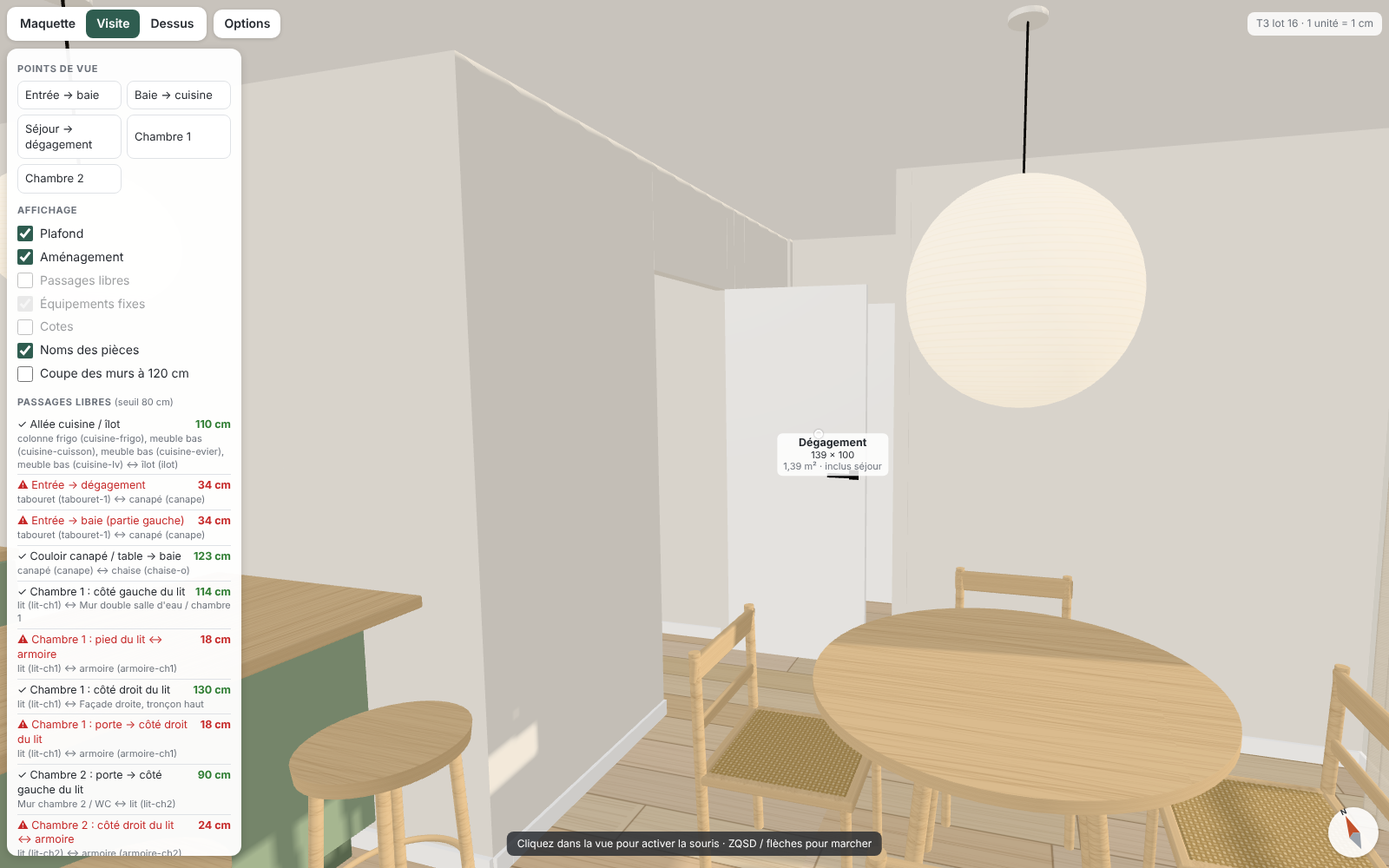
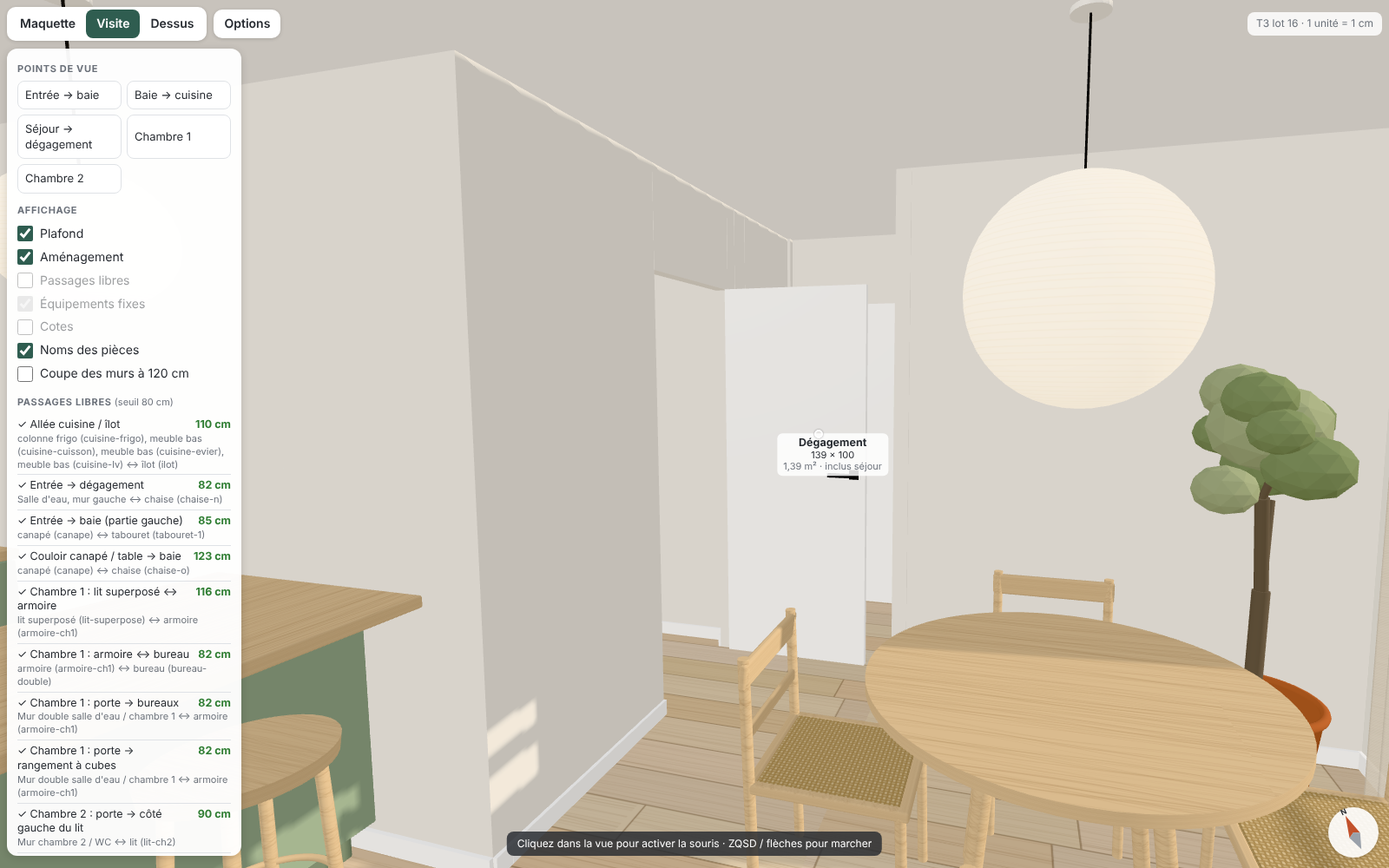
Maquette T3 : séjour dégagé, chambre d'enfants, meubles hauts de cuisine
- Canapé contre la façade (face TV), TV, table basse recentrées,
  olivier à droite de la baie, 2 tabourets rentrés sous l'îlot,
  table décalée de 15 cm : passages entrée → dégagement 82 cm,
  entrée → baie 85 cm.
- Chambre 1 pour deux enfants : lit superposé, bureau double sous la
  fenêtre, étagères, rangement à cubes, armoire 180 cm.
- Cuisine : meubles hauts sauge sauf au-dessus de la plaque.
- QC et HYPOTHESES.md mis à jour.

Claude-Session: https://claude.ai/code/session_013NNe5BH2YHyHX7LnZjBHt7

diff --git a/maquette-t3/index.html b/maquette-t3/index.html
@@ -113,7 +113,7 @@ const GEO = {
     { id: 'entree-baie',       nom: 'Entrée → baie',        depuis: [55, 210],  vers: [466, 577, 110] },
     { id: 'baie-cuisine',      nom: 'Baie → cuisine',       depuis: [466, 545], vers: [343, 30, 100] },
     { id: 'sejour-degagement', nom: 'Séjour → dégagement',  depuis: [330, 440], vers: [740, 320, 120] },
-    { id: 'chambre-1',         nom: 'Chambre 1',            depuis: [800, 250], vers: [1110, 60, 110] },
+    { id: 'chambre-1',         nom: 'Chambre 1',            depuis: [740, 190], vers: [1110, 140, 100] },
     { id: 'chambre-2',         nom: 'Chambre 2',            depuis: [820, 310], vers: [1110, 577, 100] }
   ]
 };
@@ -140,41 +140,46 @@ const furniture = [
   { id: 'cuisine-evier',   type: 'meuble-bas', variante: 'evier',          x: 341, y: 0, largeur: 89, profondeur: 63, hauteur: 90, rotation: 0, materiau: 'sauge', habille: 'cuisine-evier' },
   { id: 'cuisine-lv',      type: 'meuble-bas', variante: 'lave-vaisselle', x: 430, y: 0, largeur: 64, profondeur: 63, hauteur: 90, rotation: 0, materiau: 'sauge', habille: 'cuisine-lv' },
   { id: 'credence',        type: 'revetement', x: 254, y: 0, largeur: 240, profondeur: 1.5, hauteur: 60, z: 90,  rotation: 0, materiau: 'zellige' },
-  { id: 'etagere-cuisine', type: 'etagere',    x: 254, y: 0, largeur: 240, profondeur: 25,  hauteur: 4,  z: 150, rotation: 0, materiau: 'chene' },
+  { id: 'etagere-cuisine', type: 'etagere',    x: 254, y: 0, largeur: 87,  profondeur: 25,  hauteur: 4,  z: 150, rotation: 0, materiau: 'chene' }, // au-dessus de la cuisson (pas de meuble haut)
+  // meubles hauts : partout sauf au-dessus de la plaque de cuisson ; dessus alignés à 230 cm
+  { id: 'haut-frigo',      type: 'meuble-haut', x: 193, y: 0, largeur: 61,  profondeur: 60, hauteur: 30, z: 200, rotation: 0, materiau: 'sauge', portes: 1 },
+  { id: 'haut-evier',      type: 'meuble-haut', x: 341, y: 0, largeur: 89,  profondeur: 35, hauteur: 80, z: 150, rotation: 0, materiau: 'sauge', portes: 2 },
+  { id: 'haut-lv',         type: 'meuble-haut', x: 430, y: 0, largeur: 64,  profondeur: 35, hauteur: 80, z: 150, rotation: 0, materiau: 'sauge', portes: 1 },
   // ---------- Îlot et tabourets ----------
   // 200 × 90 × 90 : caisson de 65 cm + plateau débordant de 25 cm côté séjour (+y)
   { id: 'ilot',       type: 'ilot',     x: 294, y: 173, largeur: 200, profondeur: 90, hauteur: 90, rotation: 180, materiau: 'sauge', debord: 25 },
-  { id: 'tabouret-1', type: 'tabouret', x: 320, y: 265, largeur: 40, profondeur: 40, hauteur: 65, rotation: 180, materiau: 'chene' }, // centre (340, 285)
-  { id: 'tabouret-2', type: 'tabouret', x: 380, y: 265, largeur: 40, profondeur: 40, hauteur: 65, rotation: 180, materiau: 'chene' }, // centre (400, 285)
-  { id: 'tabouret-3', type: 'tabouret', x: 440, y: 265, largeur: 40, profondeur: 40, hauteur: 65, rotation: 180, materiau: 'chene' }, // centre (460, 285)
+  { id: 'tabouret-1', type: 'tabouret', x: 324, y: 238, largeur: 40, profondeur: 40, hauteur: 65, rotation: 180, materiau: 'chene', table: 'ilot' }, // centre (344, 258), rentré sous le débord
+  { id: 'tabouret-2', type: 'tabouret', x: 424, y: 238, largeur: 40, profondeur: 40, hauteur: 65, rotation: 180, materiau: 'chene', table: 'ilot' }, // centre (444, 258), rentré sous le débord
   { id: 'suspension-ilot-1', type: 'suspension', x: 326.5, y: 200.5, largeur: 35, profondeur: 35, hauteur: 35, z: 175, rotation: 0, materiau: 'papier' }, // centre (344, 218)
   { id: 'suspension-ilot-2', type: 'suspension', x: 426.5, y: 200.5, largeur: 35, profondeur: 35, hauteur: 35, z: 175, rotation: 0, materiau: 'papier' }, // centre (444, 218)
   // ---------- Salon ----------
-  { id: 'meuble-tv',  type: 'meuble-tv', x: 0,   y: 300, largeur: 40, profondeur: 180, hauteur: 50, rotation: 270, materiau: 'chene' },
-  { id: 'ecran',      type: 'ecran',     x: 9,   y: 329, largeur: 22, profondeur: 122, hauteur: 78, z: 50, rotation: 270, materiau: 'noir' }, // 55 pouces
-  { id: 'canape',     type: 'canape',    x: 215, y: 330, largeur: 95, profondeur: 220, hauteur: 80, rotation: 90, materiau: 'boucle',
+  { id: 'meuble-tv',  type: 'meuble-tv', x: 0,   y: 377, largeur: 40, profondeur: 180, hauteur: 50, rotation: 270, materiau: 'chene' }, // centré sur le canapé (y 467)
+  { id: 'ecran',      type: 'ecran',     x: 9,   y: 406, largeur: 22, profondeur: 122, hauteur: 78, z: 50, rotation: 270, materiau: 'noir' }, // 55 pouces
+  { id: 'canape',     type: 'canape',    x: 215, y: 357, largeur: 95, profondeur: 220, hauteur: 80, rotation: 90, materiau: 'boucle',
     coussins: ['terracotta', 'ocre', 'terracotta'], plaid: 'ocre' },
-  { id: 'table-basse', type: 'table-basse-ronde', x: 90, y: 400, largeur: 80, profondeur: 80, hauteur: 35, rotation: 0, materiau: 'travertin' }, // centre (130, 440)
+  { id: 'table-basse', type: 'table-basse-ronde', x: 90, y: 427, largeur: 80, profondeur: 80, hauteur: 35, rotation: 0, materiau: 'travertin' }, // centre (130, 467)
   { id: 'tapis',      type: 'tapis',     x: 75,  y: 296, largeur: 200, profondeur: 280, hauteur: 1.5, rotation: 0, materiau: 'laine' },
-  { id: 'olivier',    type: 'olivier',   x: 5,   y: 505, largeur: 70, profondeur: 70, hauteur: 170, rotation: 0, materiau: 'terre-cuite' }, // centre (40, 540)
+  { id: 'olivier',    type: 'olivier',   x: 569, y: 490, largeur: 70, profondeur: 70, hauteur: 170, rotation: 0, materiau: 'terre-cuite' }, // centre (604, 525), à droite de la baie
   // ---------- Coin repas ----------
-  { id: 'table-sejour', type: 'table-ronde', x: 465, y: 385, largeur: 110, profondeur: 110, hauteur: 75, rotation: 0, materiau: 'chene' }, // centre (520, 440)
-  { id: 'chaise-n', type: 'chaise', x: 497, y: 352, largeur: 46, profondeur: 50, hauteur: 80, rotation: 0,   materiau: 'chene', table: 'table-sejour' },
-  { id: 'chaise-s', type: 'chaise', x: 497, y: 478, largeur: 46, profondeur: 50, hauteur: 80, rotation: 180, materiau: 'chene', table: 'table-sejour' },
-  { id: 'chaise-o', type: 'chaise', x: 433, y: 417, largeur: 50, profondeur: 46, hauteur: 80, rotation: 270, materiau: 'chene', table: 'table-sejour' },
-  { id: 'chaise-e', type: 'chaise', x: 557, y: 417, largeur: 50, profondeur: 46, hauteur: 80, rotation: 90,  materiau: 'chene', table: 'table-sejour' },
-  { id: 'suspension-table', type: 'suspension', x: 490, y: 410, largeur: 60, profondeur: 60, hauteur: 60, z: 150, rotation: 0, materiau: 'papier' }, // centre (520, 440)
+  { id: 'table-sejour', type: 'table-ronde', x: 465, y: 400, largeur: 110, profondeur: 110, hauteur: 75, rotation: 0, materiau: 'chene' }, // centre (520, 455)
+  { id: 'chaise-n', type: 'chaise', x: 497, y: 367, largeur: 46, profondeur: 50, hauteur: 80, rotation: 0,   materiau: 'chene', table: 'table-sejour' },
+  { id: 'chaise-s', type: 'chaise', x: 497, y: 493, largeur: 46, profondeur: 50, hauteur: 80, rotation: 180, materiau: 'chene', table: 'table-sejour' },
+  { id: 'chaise-o', type: 'chaise', x: 433, y: 432, largeur: 50, profondeur: 46, hauteur: 80, rotation: 270, materiau: 'chene', table: 'table-sejour' },
+  { id: 'chaise-e', type: 'chaise', x: 557, y: 432, largeur: 50, profondeur: 46, hauteur: 80, rotation: 90,  materiau: 'chene', table: 'table-sejour' },
+  { id: 'suspension-table', type: 'suspension', x: 490, y: 425, largeur: 60, profondeur: 60, hauteur: 60, z: 150, rotation: 0, materiau: 'papier' }, // centre (520, 455)
   // ---------- Voilages de la baie ----------
   { id: 'voilage-g', type: 'voilage', x: 322, y: 563, largeur: 44,  profondeur: 10, hauteur: 238, z: 1,   rotation: 0, materiau: 'lin' },
   { id: 'voilage-d', type: 'voilage', x: 566, y: 563, largeur: 44,  profondeur: 10, hauteur: 238, z: 1,   rotation: 0, materiau: 'lin' },
   { id: 'tringle',   type: 'tringle', x: 316, y: 567, largeur: 300, profondeur: 2,  hauteur: 2,   z: 240, rotation: 0, materiau: 'noir' },
-  // ---------- Chambre 1 ----------
-  { id: 'lit-ch1',      type: 'lit',     x: 820, y: 0,   largeur: 160, profondeur: 200, hauteur: 110, rotation: 0, materiau: 'chene', linge: ['lin-blanc', 'terracotta'] },
-  { id: 'chevet-g-ch1', type: 'chevet',  x: 775, y: 0,   largeur: 45,  profondeur: 40,  hauteur: 50,  rotation: 0, materiau: 'chene' },
-  { id: 'chevet-d-ch1', type: 'chevet',  x: 980, y: 0,   largeur: 45,  profondeur: 40,  hauteur: 50,  rotation: 0, materiau: 'chene' },
-  { id: 'lampe-g-ch1',  type: 'lampe',   x: 785, y: 7.5, largeur: 25,  profondeur: 25,  hauteur: 42,  z: 50, rotation: 0, materiau: 'lin' },
-  { id: 'lampe-d-ch1',  type: 'lampe',   x: 990, y: 7.5, largeur: 25,  profondeur: 25,  hauteur: 42,  z: 50, rotation: 0, materiau: 'lin' },
-  { id: 'armoire-ch1',  type: 'armoire', x: 900, y: 218, largeur: 200, profondeur: 60,  hauteur: 220, rotation: 180, materiau: 'blanc' },
+  // ---------- Chambre 1 : chambre de deux enfants ----------
+  { id: 'lit-superpose',  type: 'lit-superpose',  x: 706,  y: 0,  largeur: 207, profondeur: 102, hauteur: 165, rotation: 0,   materiau: 'chene', linge: ['terracotta', 'ocre'] }, // 2 × 90 × 190
+  { id: 'rangement-cubes', type: 'etagere-cubes', x: 945,  y: 0,  largeur: 147, profondeur: 39,  hauteur: 77,  rotation: 0,   materiau: 'blanc' },
+  { id: 'bureau-double',  type: 'bureau',         x: 1050, y: 58, largeur: 60,  profondeur: 200, hauteur: 75,  rotation: 90,  materiau: 'chene' }, // sous la fenêtre
+  { id: 'chaise-enfant-1', type: 'chaise',        x: 1015, y: 85,  largeur: 50, profondeur: 46,  hauteur: 80,  rotation: 270, materiau: 'chene', table: 'bureau-double' },
+  { id: 'chaise-enfant-2', type: 'chaise',        x: 1015, y: 185, largeur: 50, profondeur: 46,  hauteur: 80,  rotation: 270, materiau: 'chene', table: 'bureau-double' },
+  { id: 'etagere-bureau-1', type: 'etagere',      x: 1085, y: 58, largeur: 25,  profondeur: 100, hauteur: 3,   z: 150, rotation: 90, materiau: 'chene' },
+  { id: 'etagere-bureau-2', type: 'etagere',      x: 1085, y: 58, largeur: 25,  profondeur: 100, hauteur: 3,   z: 185, rotation: 90, materiau: 'chene' },
+  { id: 'armoire-ch1',    type: 'armoire',        x: 788,  y: 218, largeur: 180, profondeur: 60, hauteur: 220, rotation: 180, materiau: 'blanc' },
   // ---------- Chambre 2 ----------
   // x 886 au lieu de 882 : le vantail de la porte de la chambre 2 ouvert à 90° (x 796 → 884) touchait le lit (voir HYPOTHESES.md)
   { id: 'lit-ch2',       type: 'lit',     x: 886,  y: 287, largeur: 140, profondeur: 190, hauteur: 110, rotation: 0,   materiau: 'chene', linge: ['lin-blanc', 'terracotta'] },
@@ -206,10 +211,10 @@ const passages = [
   { id: 'entree-degagement', nom: 'Entrée → dégagement',                         type: 'chemin', de: [10, 20, 109, 208],   vers: [655, 295, 780, 380] },
   { id: 'entree-baie',       nom: 'Entrée → baie (partie gauche)',               type: 'chemin', de: [10, 20, 109, 208],   vers: [367, 487, 445, 530] },
   { id: 'sejour-baie',       nom: 'Couloir canapé / table → baie',               type: 'chemin', de: [312, 330, 430, 400], vers: [367, 487, 445, 530] },
-  { id: 'lit1-gauche',       nom: 'Chambre 1 : côté gauche du lit',              type: 'ecart',  a: ['lit-ch1'], b: ['mur:sde-ch1-double'] },
-  { id: 'lit1-pied',         nom: 'Chambre 1 : pied du lit ↔ armoire',           type: 'ecart',  a: ['lit-ch1'], b: ['armoire-ch1'] },
-  { id: 'lit1-droit',        nom: 'Chambre 1 : côté droit du lit',               type: 'ecart',  a: ['lit-ch1'], b: ['mur:facade-droite-1'] },
-  { id: 'lit1-acces-droit',  nom: 'Chambre 1 : porte → côté droit du lit',       type: 'chemin', de: [712, 225, 770, 272], vers: [985, 60, 1105, 190] },
+  { id: 'ch1-lit-armoire',   nom: 'Chambre 1 : lit superposé ↔ armoire',         type: 'ecart',  a: ['lit-superpose'], b: ['armoire-ch1'] },
+  { id: 'ch1-armoire-bureau', nom: 'Chambre 1 : armoire ↔ bureau',                type: 'ecart',  a: ['armoire-ch1'], b: ['bureau-double'] },
+  { id: 'ch1-porte-bureaux', nom: 'Chambre 1 : porte → bureaux',                 type: 'chemin', de: [712, 225, 770, 272], vers: [960, 90, 1010, 240] },
+  { id: 'ch1-porte-cubes',   nom: 'Chambre 1 : porte → rangement à cubes',       type: 'chemin', de: [712, 225, 770, 272], vers: [945, 40, 1010, 90] },
   { id: 'lit2-gauche',       nom: 'Chambre 2 : porte → côté gauche du lit',      type: 'chemin', de: [800, 300, 840, 372], vers: [800, 400, 880, 470] },
   { id: 'lit2-droit',        nom: 'Chambre 2 : côté droit du lit ↔ armoire',     type: 'ecart',  a: ['lit-ch2'], b: ['armoire-ch2'] },
   { id: 'lit2-bureau',       nom: 'Chambre 2 : pied du lit ↔ chaise de bureau',  type: 'ecart',  a: ['lit-ch2'], b: ['chaise-bureau'] }
@@ -712,7 +717,7 @@ groups.equipements.visible = false;
 for (const n of ['amenagement', 'passages']) { groups[n] = new THREE.Group(); groups[n].name = n; scene.add(groups[n]); }
 const DRESSED = new Set(furniture.filter(f => f.habille).map(f => f.habille));
 const ROUND_TYPES = new Set(['table-basse-ronde', 'table-ronde', 'tabouret', 'suspension', 'olivier', 'lampe']);
-const NON_BLOQUANTS = new Set(['tapis', 'suspension', 'revetement', 'miroir', 'etagere', 'tringle']);
+const NON_BLOQUANTS = new Set(['tapis', 'suspension', 'revetement', 'miroir', 'etagere', 'tringle', 'meuble-haut']);
 
 function canvasTexture(size, draw) {
   const c = document.createElement('canvas'); c.width = c.height = size;
@@ -801,6 +806,7 @@ const MATERIAUX = {
   lin:            { color: 0xe6dccb, map: 'lin', roughness: 1, transparent: true, opacity: 0.84, side: THREE.DoubleSide },
   'abat-jour':    { color: 0xeee5d4, map: 'lin', roughness: 1, side: THREE.DoubleSide, emissive: 0xffe8c4, emissiveIntensity: 0.35 },
   'lin-blanc':    { color: 0xf7f4ef, map: 'lin', roughness: 1 },
+  'lin-panier':   { color: 0xd8cbb2, map: 'lin', roughness: 1 },
   terracotta:     { color: 0xC46A45, map: 'lin', roughness: 1 },
   ocre:           { color: 0xC9923E, map: 'laine', roughness: 1 },
   'terre-cuite':  { color: 0xB8693F, roughness: 0.95, clip: false },
@@ -915,6 +921,51 @@ const BUILD = {
       RB(g, W - 0.6, y1 - y0, 2, 0.4, S, 0, y0, zb + 60);
       RB(g, 1.2, 38, 1.2, 0.45, N, W / 2 - 6, y0 === 11 ? y1 - 46 : y0 + 6, zb + 61.9);
     }
+  },
+  'meuble-haut'(g, f, W, D, H) {
+    const S = FM('sauge'), N = FM('noir'), n = f.portes || 1, dw = W / n;
+    RB(g, W - 0.2, H, D - 2, 0.5, S, 0, 0, -1);
+    for (let i = 0; i < n; i++) {
+      const x = -W / 2 + dw * (i + 0.5);
+      RB(g, dw - 0.5, H - 1, 2, 0.4, S, x, 0.5, D / 2 - 1);
+      if (H >= 50) RB(g, Math.min(16, dw * 0.4), 1, 1.2, 0.45, N, x, 5, D / 2 + 0.6);   // poignée en bas de porte
+    }
+  },
+  'lit-superpose'(g, f, W, D, H) {
+    const O = FM('chene', 1.5, 1), L = FM('lin-blanc'), N = FM('noir'), [c1, c2] = f.linge || ['terracotta', 'ocre'], p = 6;
+    for (const sx of [-1, 1]) for (const sz of [-1, 1]) RB(g, p, H, p, 1, O, sx * (W / 2 - p / 2), 0, sz * (D / 2 - p / 2));
+    const iw = W - 2 * p, id = D - 2 * p;
+    for (const [y0, c] of [[16, c1], [112, c2]]) {
+      RB(g, iw, 14, 3, 1, O, 0, y0, D / 2 - 1.5); RB(g, iw, 14, 3, 1, O, 0, y0, -D / 2 + 1.5);   // longerons
+      RB(g, iw, 2, id, 0.5, O, 0, y0 + 4, 0);                                                   // sommier
+      RB(g, 190, 16, 90, 4, L, 0, y0 + 6, 0);                                                   // matelas 90 × 190
+      RB(g, 125, 4, 92, 2, L, 30, y0 + 21, 0);                                                  // couette lin
+      RB(g, 60, 2, 94, 1, FM(c), 60, y0 + 24.5, 0);                                             // jeté
+      RB(g, 40, 11, 62, 5, L, -W / 2 + p + 25, y0 + 22, 0).rotation.z = 0.22;                  // oreiller
+    }
+    for (const sx of [-1, 1]) { RB(g, 2.5, 42, id, 0.8, O, sx * (W / 2 - p / 2), 16, 0); RB(g, 2.5, H - 117, id, 0.8, O, sx * (W / 2 - p / 2), 112, 0); }
+    // barrières du haut (ouverture de 45 cm pour l'échelle, côté +x)
+    RB(g, iw, 7, 2.5, 1, O, 0, 145, -D / 2 + 1.5);
+    RB(g, iw - 45, 7, 2.5, 1, O, -22.5, 145, D / 2 - 1.5);
+    // échelle
+    const x1 = W / 2 - p - 42, x2 = W / 2 - p - 4, zl = D / 2 - 1.5;
+    for (const x of [x1, x2]) ROD(g, [x, 0, zl], [x, 150, zl], 1.8, O);
+    for (let y = 30; y <= 130; y += 25) ROD(g, [x1, y, zl], [x2, y, zl], 1.4, O);
+    // tiroirs de rangement sous le lit du bas
+    const dw = (iw - 50) / 2;
+    for (const sx of [-1, 1]) { const x = sx * (dw / 2 + 1) - 22; RB(g, dw, 13, 2, 0.6, O, x, 1, D / 2 - 2); SPH(g, 1.2, N, x, 7.5, D / 2 - 0.6); }
+  },
+  'etagere-cubes'(g, f, W, D, H) {
+    const Wt = FM('blanc'), t = 2, nx = 4, ny = 2, cw = (W - t) / nx, ch = (H - t) / ny;
+    RB(g, W, t, D, 0.4, Wt, 0, 0, 0); RB(g, W, t, D, 0.4, Wt, 0, H - t, 0);
+    for (let i = 0; i <= nx; i++) RB(g, t, H, D, 0.4, Wt, -W / 2 + t / 2 + i * cw, 0, 0);
+    for (let j = 1; j < ny; j++) RB(g, W, t, D, 0.4, Wt, 0, j * ch, 0);
+    RB(g, W, H, 0.6, 0.2, Wt, 0, 0, -D / 2 + 0.3);
+    ['lin-panier', 'terracotta', null, 'ocre', null, 'lin-panier', 'terracotta', null].forEach((m, k) => {
+      if (!m) return;
+      const i = k % nx, j = (k / nx) | 0;
+      RB(g, cw - t - 3, ch - t - 6, D - 6, 2, FM(m), -W / 2 + t / 2 + (i + 0.5) * cw, t + j * ch + 0.5, 1);
+    });
   },
   revetement(g, f, W, D, H) { RB(g, W, H, D, 0.1, FM('zellige', Math.max(W, 4) / 40, H / 40)); },
   etagere(g, f, W, D, H) {
@@ -1176,7 +1227,7 @@ function footprint(f) {
   return { kind: 'rect', x0: f.x, y0: f.y, x1: f.x + f.largeur, y1: f.y + f.profondeur };
 }
 const LIBELLE = {
-  'colonne-frigo': 'colonne frigo', 'meuble-bas': 'meuble bas', ilot: 'îlot', tabouret: 'tabouret', 'meuble-tv': 'meuble TV', ecran: 'écran',
+  'lit-superpose': 'lit superposé', 'etagere-cubes': 'rangement à cubes', 'meuble-haut': 'meuble haut', 'colonne-frigo': 'colonne frigo', 'meuble-bas': 'meuble bas', ilot: 'îlot', tabouret: 'tabouret', 'meuble-tv': 'meuble TV', ecran: 'écran',
   canape: 'canapé', 'table-basse-ronde': 'table basse', olivier: 'olivier', 'table-ronde': 'table', chaise: 'chaise', voilage: 'voilage',
   lit: 'lit', chevet: 'chevet', lampe: 'lampe', armoire: 'armoire', bureau: 'bureau', 'paroi-douche': 'paroi de douche',
   'douche-pluie': 'douche', 'meuble-vasque': 'meuble vasque', 'lave-linge': 'lave-linge', 'placard-ballon': 'placard du ballon',

diff --git a/maquette-t3/qc/RAPPORT-QC.md b/maquette-t3/qc/RAPPORT-QC.md
@@ -1,6 +1,6 @@
 # Rapport de contrôle qualité — maquette T3 lot 16
 
-Généré le 2026-11-20 11:14:36 UTC à partir de `index.html` (objet GEO).
+Généré le 2026-11-20 11:44:38 UTC à partir de `index.html` (objet GEO).
 
 ## 1. Surfaces intérieures recalculées (tolérance ±5 %)
 
@@ -48,23 +48,23 @@ Trous dans le périmètre des pièces fermées (ni mur ni ouverture déclarée) 
 | Meuble            | Position dans la maquette (cm)                 | Par rapport à la demande |
 |-------------------|------------------------------------------------|--------------------------|
 | ilot              | x 294→494, y 173→263, h 90                     | conforme                 |
-| tabouret-1        | x 320→360, y 265→305, h 65                     | conforme                 |
-| tabouret-2        | x 380→420, y 265→305, h 65                     | conforme                 |
-| tabouret-3        | x 440→480, y 265→305, h 65                     | conforme                 |
-| meuble-tv         | x 0→40, y 300→480, h 50                        | conforme                 |
-| canape            | x 215→310, y 330→550, h 80                     | conforme                 |
-| table-basse       | x 90→170, y 400→480, h 35                      | conforme                 |
-| table-sejour      | x 465→575, y 385→495, h 75                     | conforme                 |
-| lit-ch1           | x 820→980, y 0→200, h 110                      | conforme                 |
-| armoire-ch1       | x 900→1100, y 218→278, h 220                   | conforme                 |
+| tabouret-1        | x 324→364, y 238→278, h 65                     | conforme                 |
+| tabouret-2        | x 424→464, y 238→278, h 65                     | conforme                 |
+| meuble-tv         | x 0→40, y 377→557, h 50                        | conforme                 |
+| canape            | x 215→310, y 357→577, h 80                     | conforme                 |
+| table-basse       | x 90→170, y 427→507, h 35                      | conforme                 |
+| table-sejour      | x 465→575, y 400→510, h 75                     | conforme                 |
 | lit-ch2           | x 886→1026, y 287→477, h 110                   | AJUSTÉ : x 882 → 886     |
 | bureau-ch2        | x 883→1003, y 517→577, h 75                    | conforme                 |
 | armoire-ch2       | x 1050→1110, y 300→480, h 220                  | conforme                 |
 | cuisine-frigo     | x 193→254, y 0→63, h 200                       | conforme                 |
 | suspension-ilot-1 | x 326.5→361.5, y 200.5→235.5, h 35 (bas à 175) | conforme                 |
-| suspension-table  | x 490→550, y 410→470, h 60 (bas à 150)         | conforme                 |
+| suspension-table  | x 490→550, y 425→485, h 60 (bas à 150)         | conforme                 |
+| lit-superpose     | x 706→913, y 0→102, h 165                      | conforme                 |
+| bureau-double     | x 1050→1110, y 58→258, h 75                    | conforme                 |
+| armoire-ch1       | x 788→968, y 218→278, h 220                    | conforme                 |
 
-51 éléments dans le tableau `furniture`. Les ajustements sont justifiés dans HYPOTHESES.md.
+55 éléments dans le tableau `furniture`. Les ajustements sont justifiés dans HYPOTHESES.md.
 
 ## 4. Ouvertures : coordonnées réelles relevées dans la scène 3D
 
@@ -102,12 +102,6 @@ Chaque meuble (emprise au sol + hauteur) est confronté aux murs, aux baies de p
 
 - OK : aucun meuble ne chevauche un mur, une porte (débattement compris), la baie ou un autre meuble.
 
-Avertissements (ouvrants de fenêtres, hypothèse de vantaux à la française ouvrant vers l'intérieur) :
-
-| Meuble      | Gêne                        | Profondeur (cm) |
-|-------------|-----------------------------|-----------------|
-| armoire-ch1 | ouvrant : Fenêtre chambre 1 | 34              |
-
 ## 4 ter. Passages libres (seuil 80 cm)
 
 « chemin » : plus grand disque pouvant circuler d'une zone à l'autre entre murs, équipements et meubles, portes supposées fermées (grille de 2 cm), largeur réelle mesurée au point le plus étroit. « écart » : distance mini entre deux éléments.
@@ -115,18 +109,18 @@ Avertissements (ouvrants de fenêtres, hypothèse de vantaux à la française ou
 | Passage                                    | Largeur (cm) | Point le plus étroit entre                                                                                                     | Verdict        |
 |--------------------------------------------|--------------|--------------------------------------------------------------------------------------------------------------------------------|----------------|
 | Allée cuisine / îlot                       | 110          | colonne frigo (cuisine-frigo), meuble bas (cuisine-cuisson), meuble bas (cuisine-evier), meuble bas (cuisine-lv) ↔ îlot (ilot) | OK             |
-| Entrée → dégagement                        | 34           | tabouret (tabouret-1) ↔ canapé (canape)                                                                                        | MOINS DE 80 CM |
-| Entrée → baie (partie gauche)              | 34           | tabouret (tabouret-1) ↔ canapé (canape)                                                                                        | MOINS DE 80 CM |
+| Entrée → dégagement                        | 82           | Salle d'eau, mur gauche ↔ chaise (chaise-n)                                                                                    | OK             |
+| Entrée → baie (partie gauche)              | 85           | canapé (canape) ↔ tabouret (tabouret-1)                                                                                        | OK             |
 | Couloir canapé / table → baie              | 123          | canapé (canape) ↔ chaise (chaise-o)                                                                                            | OK             |
-| Chambre 1 : côté gauche du lit             | 114          | lit (lit-ch1) ↔ Mur double salle d'eau / chambre 1                                                                             | OK             |
-| Chambre 1 : pied du lit ↔ armoire          | 18           | lit (lit-ch1) ↔ armoire (armoire-ch1)                                                                                          | MOINS DE 80 CM |
-| Chambre 1 : côté droit du lit              | 130          | lit (lit-ch1) ↔ Façade droite, tronçon haut                                                                                    | OK             |
-| Chambre 1 : porte → côté droit du lit      | 18           | lit (lit-ch1) ↔ armoire (armoire-ch1)                                                                                          | MOINS DE 80 CM |
+| Chambre 1 : lit superposé ↔ armoire        | 116          | lit superposé (lit-superpose) ↔ armoire (armoire-ch1)                                                                          | OK             |
+| Chambre 1 : armoire ↔ bureau               | 82           | armoire (armoire-ch1) ↔ bureau (bureau-double)                                                                                 | OK             |
+| Chambre 1 : porte → bureaux                | 82           | Mur double salle d'eau / chambre 1 ↔ armoire (armoire-ch1)                                                                     | OK             |
+| Chambre 1 : porte → rangement à cubes      | 82           | Mur double salle d'eau / chambre 1 ↔ armoire (armoire-ch1)                                                                     | OK             |
 | Chambre 2 : porte → côté gauche du lit     | 90           | Mur chambre 2 / WC ↔ lit (lit-ch2)                                                                                             | OK             |
 | Chambre 2 : côté droit du lit ↔ armoire    | 24           | lit (lit-ch2) ↔ armoire (armoire-ch2)                                                                                          | MOINS DE 80 CM |
 | Chambre 2 : pied du lit ↔ chaise de bureau | 5            | lit (lit-ch2) ↔ chaise (chaise-bureau)                                                                                         | MOINS DE 80 CM |
 
-- 6 passage(s) de moins de 80 cm (signalés, positions demandées conservées).
+- 2 passage(s) de moins de 80 cm (signalés, positions demandées conservées).
 
 ## 5. Captures
 

diff --git a/maquette-t3/HYPOTHESES.md b/maquette-t3/HYPOTHESES.md
@@ -102,7 +102,9 @@ Aucun autre meuble n'a été déplacé ni redimensionné.
 | Visite | Les meubles bloquent le déplacement, sauf le tapis et les suspensions. Les vantaux ouverts ne bloquent toujours pas. |
 | Calcul des passages | Plus grand disque pouvant circuler d'une zone à l'autre (grille de 2 cm), avec la largeur réelle mesurée au point le plus étroit. Les portes sont supposées fermées : un vantail ouvert se rabat. Leurs débattements sont contrôlés à part, aucun meuble ne doit s'y trouver. |
 
-## 6. Points signalés, non corrigés (positions demandées conservées)
+## 6. Points signalés à l'étape 2 (en partie réglés à l'étape 3)
+
+> Le séjour et la chambre 1 ont été réaménagés à l'étape 3 (voir plus bas). Les passages du séjour et de la chambre 1 cités ici ne s'appliquent plus ; ceux de la chambre 2 restent valables.
 
 ### Passages de moins de 80 cm
 
@@ -135,3 +137,57 @@ dégagement, il faudrait aussi éloigner la chaise nord de la table (ou tourner 
 - **Porte de la salle d'eau ouverte à 90°** (constat géométrique de l'étape 1) : son vantail (x 677 → 681, y 285 → 364)
   laisse 21 cm jusqu'au mur haut du WC (y 385). Ouverte en grand, elle ferme donc l'accès au dégagement.
 - **Bureau sous la fenêtre de la chambre 2** : le plateau est à 75 cm, sous l'allège de 90 cm, donc pas de conflit avec les vantaux.
+
+---
+
+# Étape 3 : séjour dégagé, chambre d'enfants, meubles hauts
+
+## 7. Modifications demandées
+
+| Zone | Avant | Après | Choix |
+|------|-------|-------|-------|
+| Canapé | x 215 → 310, y 330 → 550 | **y 357 → 577** : 220 cm, toujours face à la TV, bout contre la façade | Option « bout contre la façade » validée. 220 cm suffit : il reste 94 cm entre le plateau de l'îlot et le canapé. |
+| Meuble TV et écran | y 300 → 480 | **y 377 → 557** (écran y 406 → 528) | Recentrés sur le canapé (y 467). |
+| Table basse | centre (130, 440) | **centre (130, 467)** | Recentrée sur le canapé. |
+| Olivier | angle mur gauche / façade (40, 540) | **à droite de la baie, centre (604, 525)** | La place dans l'angle est prise par le meuble TV recentré. |
+| Tabourets | 3, centres x 340 / 400 / 460, y 285 | **2, centres (344, 258) et (444, 258)** | Rentrés sous le débord de 25 cm de l'îlot, sous les deux suspensions. |
+| Table et 4 chaises | centre (520, 440) | **centre (520, 455)**, décalée de 15 cm vers la baie | Option validée : la chaise côté îlot laisse 82 cm jusqu'au mur de la salle d'eau (67 avant). La zone devant la partie gauche de la baie reste libre. La suspension suit la table. |
+| Tapis | y 296 → 576 | inchangé | Il ne peut pas être centré sur le canapé (y 467) sans entrer dans la façade. |
+| Cuisine | étagère en chêne sur 240 cm | **meubles hauts sauge** au-dessus de l'évier et du lave-vaisselle (x 341 → 494, 35 cm de profondeur, de 150 à 230 cm), et un caisson au-dessus de la colonne frigo (200 → 230). Pas de meuble haut au-dessus de la plaque : l'étagère ouverte en chêne y est conservée, raccourcie à 87 cm (x 254 → 341, à 150 cm). | Dessus des meubles hauts aligné à 230 cm (20 cm sous le plafond), 60 cm entre plan de travail et meubles hauts. Pas de hotte, car non demandée. Il faudra peut-être en prévoir une, ou supprimer l'étagère au-dessus de la plaque à cause de la chaleur. |
+
+## 8. Chambre 1 : chambre de deux enfants (x 706 → 1110, y 0 → 278)
+
+| Élément | Position | Pourquoi |
+|---------|----------|----------|
+| Lit superposé 2 × 90 × 190, chêne | x 706 → 913, y 0 → 102, haut de 165 cm | Dans l'angle mur double / mur du couloir, la partie la plus sombre de la pièce et loin de la porte. Couchage du haut à 128 cm du sol (environ 120 cm sous plafond), barrières, échelle côté chambre, 2 tiroirs sous le lit du bas. Linge en lin blanc, jetés terracotta et ocre. |
+| Bureau double en chêne 200 × 60 | x 1050 → 1110, y 58 → 258, contre la façade droite, sous la fenêtre | Lumière naturelle pour les deux postes (2 × 100 cm). Plateau à 75 cm, sous l'allège de 90 cm : pas de conflit avec la fenêtre. |
+| 2 chaises | rentrées sous le bureau, centres y 108 et 208 | Même modèle que les chaises du séjour. |
+| 2 étagères murales en chêne | au-dessus du bureau, x 1085 → 1110, y 58 → 158, à 150 et 185 cm | Placées à côté de la fenêtre, pas devant. |
+| Rangement à cubes 4 × 2 (paniers) | x 945 → 1092, y 0 → 39, haut de 77 cm, contre le mur du couloir | Jouets et livres, entre le lit et le bureau. |
+| Armoire blanche 180 × 60 × 220 | x 788 → 968, y 218 → 278, contre le mur bas | Hors du débattement de la porte (x 706 → 781) et elle ne masque plus la fenêtre. Elle passe de 200 à 180 cm de large pour garder 82 cm jusqu'au bureau. |
+
+Passages de la chambre 1 : lit ↔ armoire 116 cm, armoire ↔ bureau 82 cm, porte → bureaux 82 cm, porte → cubes 82 cm.
+L'entrée de la pièce fait 82 cm entre le mur double et l'armoire (la porte fait 75 cm). La chaise du premier bureau
+est à 46 cm devant la dernière colonne de cubes : il faut la tirer pour ouvrir ce panier.
+
+Ajustements faits : l'armoire est décalée de 3 cm (x 785 → 788), pour passer de 79 à 82 cm à l'entrée.
+Le lit superposé fait 102 cm de profondeur au lieu de 97, pour loger un matelas de 90 cm entre les montants.
+
+## 9. Ouverture des fenêtres
+
+Le sens d'ouverture n'est pas connu. L'hypothèse reste celle de l'étape 1 : 2 vantaux à la française ouvrant vers
+l'intérieur. Avec le nouvel aménagement, aucun meuble n'est dans leur débattement : le bureau de la chambre 1 est
+sous l'allège, le bureau de la chambre 2 aussi.
+
+## 10. Passages après l'étape 3
+
+| Passage | Largeur |
+|---------|---------|
+| Allée cuisine / îlot | 110 cm |
+| Entrée → dégagement | **82 cm** (34 avant) |
+| Entrée → baie | **85 cm** (34 avant) |
+| Couloir canapé / table → baie | 123 cm |
+| Chambre 1 (4 passages) | 82 à 116 cm |
+| Chambre 2 : porte → côté gauche du lit | 90 cm |
+| Chambre 2 : lit ↔ armoire | **24 cm** (inchangé, non demandé) |
+| Chambre 2 : pied du lit ↔ chaise de bureau | **5 cm** (inchangé, non demandé) |
